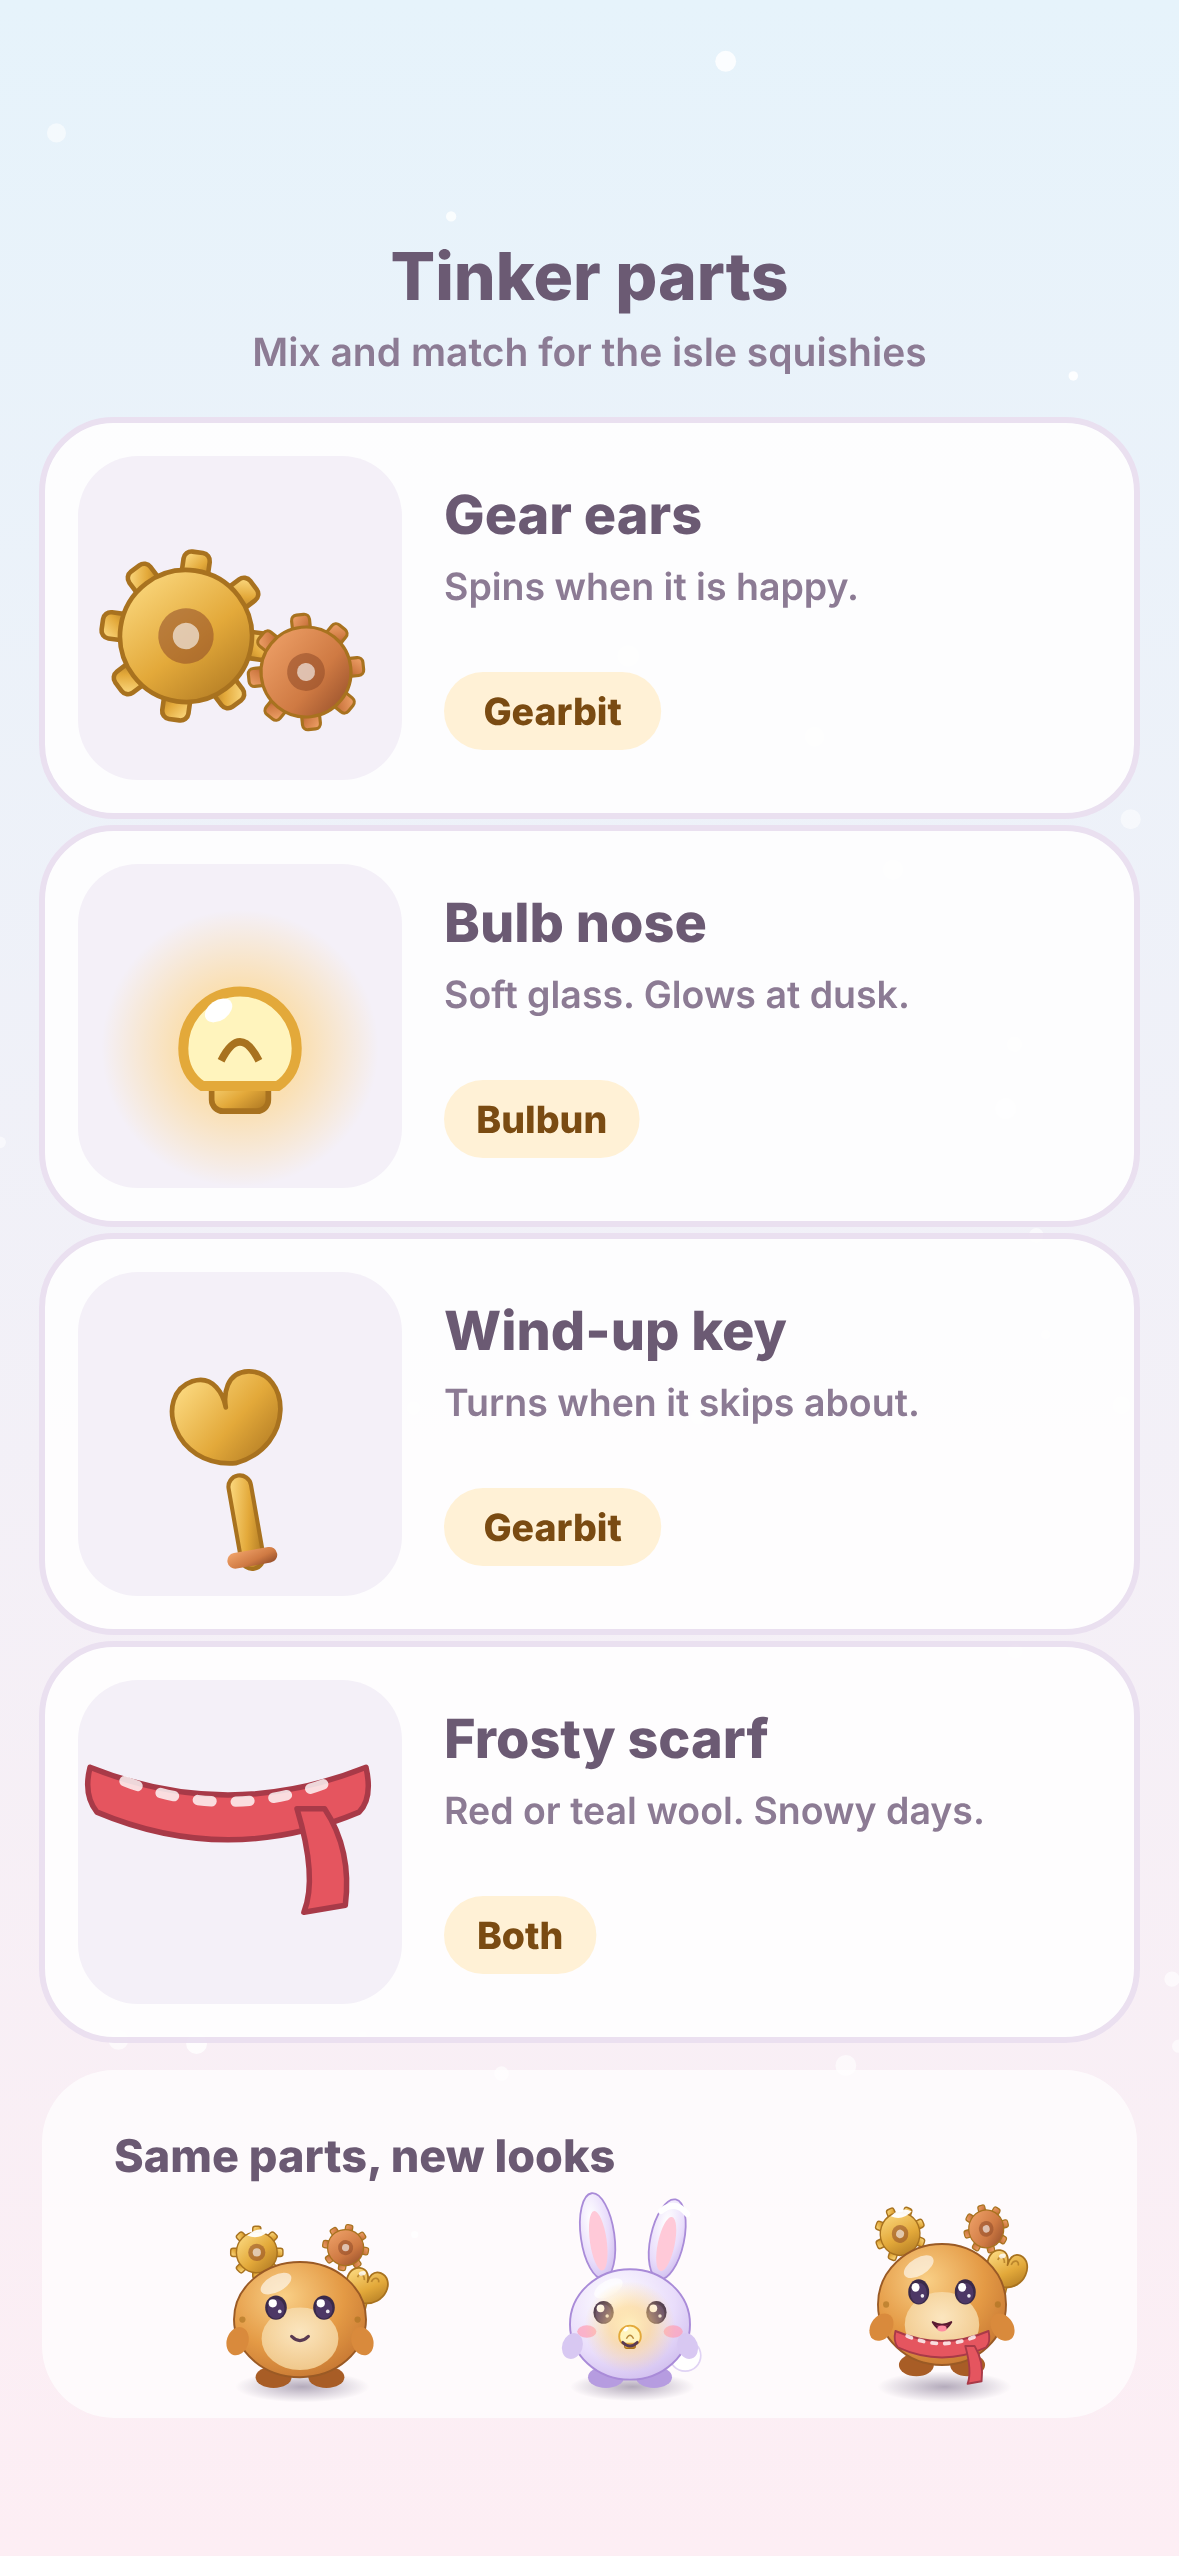
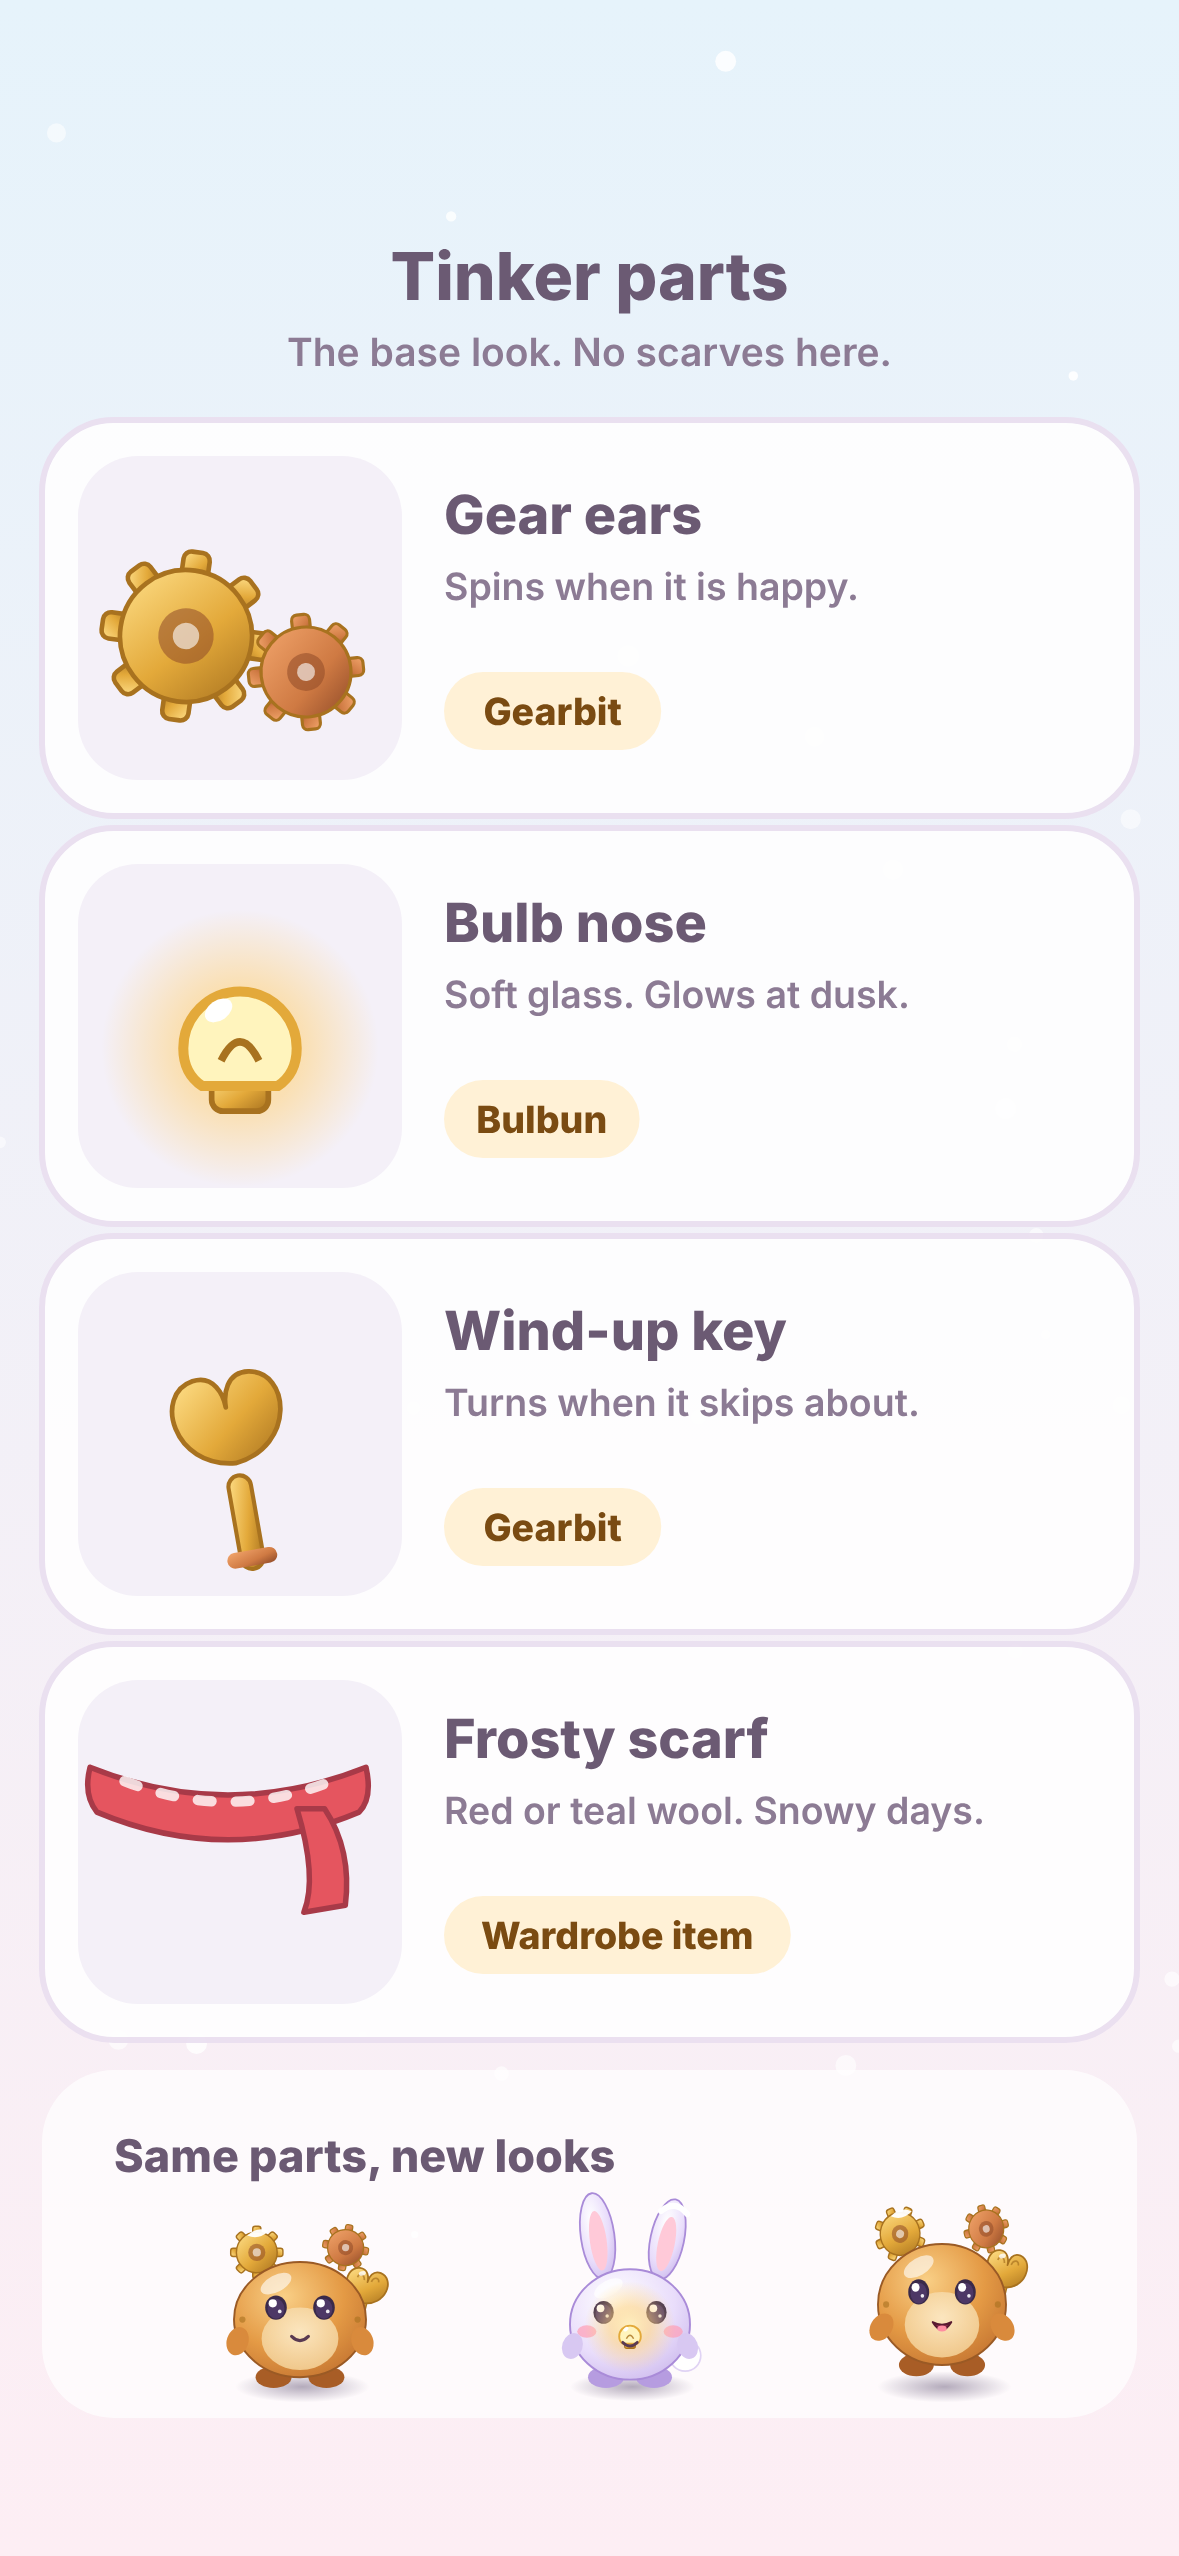
Chore: Clockwork Isle mockups r4, M4 scarves as Wardrobe item (#874)
Claude-Session: https://claude.ai/code/session_01RAEPnDGk4j7LiFU7XQUuz7

diff --git a/mockups-r4-64e8e031/source/frames-m4.js b/mockups-r4-64e8e031/source/frames-m4.js
@@ -30,7 +30,7 @@
 
   // ---------------------------------------------------------------- Gearbit
   // opts: mood 'idle'|'cheer'|'battle', frostHat, key (show wind-up key), gearRot
-  function gearbit({ mood = 'idle', scale = 1, flip = false, gearRot = 0, scarfOn = true, labels = false } = {}) {
+  function gearbit({ mood = 'idle', scale = 1, flip = false, gearRot = 0, scarfOn = false, labels = false } = {}) {
     const battle = mood === 'battle', cheer = mood === 'cheer';
     const squash = battle ? 'scale(1.06 .94)' : cheer ? 'scale(.97 1.05)' : '';
     return `<g transform="scale(${flip ? -scale : scale} ${scale})">
@@ -61,7 +61,7 @@
   }
 
   // ----------------------------------------------------------------- Bulbun
-  function bulbun({ mood = 'idle', scale = 1, flip = false, glowOn = true, scarfOn = true } = {}) {
+  function bulbun({ mood = 'idle', scale = 1, flip = false, glowOn = true, scarfOn = false } = {}) {
     const battle = mood === 'battle', cheer = mood === 'cheer';
     return `<g transform="scale(${flip ? -scale : scale} ${scale})">
       <ellipse cx="2" cy="4" rx="52" ry="12" fill="url(#gShadow)"/>
@@ -138,12 +138,26 @@
       const keyArt = `<g transform="translate(66 84) rotate(-10) scale(1.05)"><rect x="-3.6" y="-4" width="7.2" height="30" rx="3.6" fill="url(#gBrass)" stroke="${C.brassLo}" stroke-width="1.3"/><path d="M0 -8 C-20 -10 -22 -34 -9 -36 C-2 -37 0 -30 0 -26 C0 -30 2 -37 9 -36 C22 -34 20 -10 0 -8Z" fill="url(#gBrass)" stroke="${C.brassLo}" stroke-width="1.5" stroke-linejoin="round"/><rect x="-8" y="20" width="16" height="5" rx="2.5" fill="url(#gCopper)"/></g>`;
       const scarfArt = `<g transform="translate(62 94) scale(1.15)"><g transform="translate(0 -4)">${scarf('#e5555f', '#a83a48', 1)}</g></g>`;
       return svg(W, H, `<rect width="${W}" height="${H}" fill="url(#gBgDay)"/>` + snowfall(W, H, 30) +
-        txt(W / 2, 100, 'Tinker parts', { fs: 22, fw: 800, anchor: 'middle' }) + txt(W / 2, 122, 'Mix and match for the isle squishies', { fs: 13, fw: 600, fill: '#8c7b94', anchor: 'middle' }) +
+        txt(W / 2, 100, 'Tinker parts', { fs: 22, fw: 800, anchor: 'middle' }) + txt(W / 2, 122, 'The base look. No scarves here.', { fs: 13, fw: 600, fill: '#8c7b94', anchor: 'middle' }) +
         row(140, earArt, 'Gear ears', 'Spins when it is happy.', 'Gearbit') +
         row(276, noseArt, 'Bulb nose', 'Soft glass. Glows at dusk.', 'Bulbun') +
         row(412, keyArt, 'Wind-up key', 'Turns when it skips about.', 'Gearbit') +
-        row(548, scarfArt, 'Frosty scarf', 'Red or teal wool. Snowy days.', 'Both') +
+        row(548, scarfArt, 'Frosty scarf', 'Red or teal wool. Snowy days.', 'Wardrobe item') +
         `<g transform="translate(14 690)"><rect width="${W - 28}" height="116" rx="24" fill="#fff" opacity=".7"/>${txt(24, 34, 'Same parts, new looks', { fs: 15, fw: 800 })}<g transform="translate(86 104) scale(.4)">${gearbit({ mood: 'idle', scarfOn: false })}</g><g transform="translate(196 104) scale(.4)">${bulbun({ mood: 'idle', scarfOn: false })}</g><g transform="translate(300 104) scale(.4)">${gearbit({ mood: 'cheer', gearRot: 20 })}</g></g>`);
+    },
+    wardrobe() { // phone: the scarf as a Wardrobe accessory
+      const W = 393, H = 852;
+      const sw = (x, y, c1, c2, label, sel) => `<g transform="translate(${x} ${y})"><rect width="150" height="64" rx="20" fill="#fff" stroke="${sel ? '#7a4b12' : '#eadff0'}" stroke-width="${sel ? 3 : 2}"/><g transform="translate(34 40) scale(.5)">${scarf(c1, c2, 1)}</g>${txt(70, 38, label, { fs: 14, fw: 800 })}</g>`;
+      return svg(W, H, `<rect width="${W}" height="${H}" fill="url(#gBgDay)"/>` + snowfall(W, H, 36) + hills(W, H, 300) +
+        txt(W / 2, 100, 'Wardrobe', { fs: 22, fw: 800, anchor: 'middle' }) + txt(W / 2, 122, 'Dress-up for squishies', { fs: 13, fw: 600, fill: '#8c7b94', anchor: 'middle' }) +
+        `<g>${snow(110, 410, 100, 24)}<g transform="translate(110 410) scale(1.25)">${gearbit({ mood: 'cheer', gearRot: 10, scarfOn: true })}</g>${chip(110, 436, 'Gearbit', 'yellow')}</g>` +
+        `<g>${snow(286, 410, 100, 24)}<g transform="translate(286 410) scale(1.25)">${bulbun({ mood: 'cheer', scarfOn: true })}</g>${chip(286, 436, 'Bulbun', 'lilac')}</g>` +
+        `<g transform="translate(14 500)"><rect width="${W - 28}" height="212" rx="26" fill="#fff" opacity=".96" stroke="#eadff0" stroke-width="2"/>` +
+        txt(24, 40, 'Frosty Scarf', { fs: 20, fw: 800 }) + `<g transform="translate(${W - 28 - 24 - 150} 20)"><rect width="150" height="26" rx="13" fill="#dff4ea"/><text x="75" y="17.5" text-anchor="middle" font-size="12.5" font-weight="800" fill="#24684a">Wardrobe accessory</text></g>` +
+        txt(24, 66, 'Wool, with a little knot. Just for looks.', { fs: 13, fw: 600, fill: '#8c7b94' }) +
+        sw(24, 86, '#e5555f', '#a83a48', 'Red', true) + sw(190, 86, '#6cc4c9', '#3d98a0', 'Teal', false) +
+        `<g transform="translate(24 162)"><rect width="${W - 76}" height="38" rx="19" fill="url(#gBrass)"/><text x="${(W - 76) / 2}" y="25" text-anchor="middle" font-size="15" font-weight="800" fill="#5a3a0d">Put it on</text></g></g>` +
+        K.frostSparkles([[30, 160, 5], [350, 220, 6], [340, 620, 5]]));
     },
     ipad() { // iPad: idle pair + battle side by side
       const W = 1024, H = 1366;

diff --git a/mockups-r4-64e8e031/README.md b/mockups-r4-64e8e031/README.md
@@ -28,12 +28,13 @@ Owner direction (2026-11-28), via supervisor 55. Frosty Christmas headline, cozy
 | `m3-bench-and-beacon.png` | Research Bench (visible blueprint) and Clockwork Beacon (dark iron lattice, brass lantern) | "Tinker up a blueprint." / "The Beacon hums." |
 | `m3-skyline-heights.png` | All six on one baseline | "Squat, medium and tall." |
 | `m3-ipad-all-machines.png` | All six in all 3 states | |
-| `m4-*` | Gearbit and Bulbun (round 3 fixes carried: brass-orange Gearbit, no cheek circles, key on a stem) | |
+| `m4-idle.png`, `m4-battle.png`, `m4-part-sheet.png`, `m4-ipad.png` | **Gearbit** (brass, gear ears, wind-up key on its back) and **Bulbun** (bulb nose), base look **without scarves**: idle, in battle, part sheet, iPad | "Gearbit's ears spin when it's happy. Bulbun's nose glows at dusk." |
+| `m4-wardrobe-scarf.png` | Both wearing the Frosty Scarf, shown as a **Wardrobe accessory** card (red or teal, "Put it on") | "A scarf for snowy days." |
 
 States: **Working** (warm windows, steam), **Resting** (dim windows, no steam), **Needs power / Needs a wire** (grey glass, snow on the chimney, dangling wire, ⚡ badge).
 
 ## How these were made
 Terrain, hexes, snow and the night look are real renders of the game's map scene (`island.html?patch=wild&season=christmas`). A temporary local hook in the dev gallery (not committed) printed each hex's screen position (`source/proj.js` shows how; positions are in `source/tiles.js`). Everything Clockwork is original SVG (`source/kit2.js` buildings, `source/frames-r4.js` scenes). Map frames are 2x (the game caps DPR at 2); phone M3/M4 are 3x. No outside assets.
 
-## Draft names still open
-Gearbit and Bulbun (frosty alternatives Frostcog and Glowbun).
+## Names (owner decided)
+**Gearbit** (gear ears, brass) and **Bulbun** (bulb nose). The scarf is a Wardrobe item, not part of either species.
